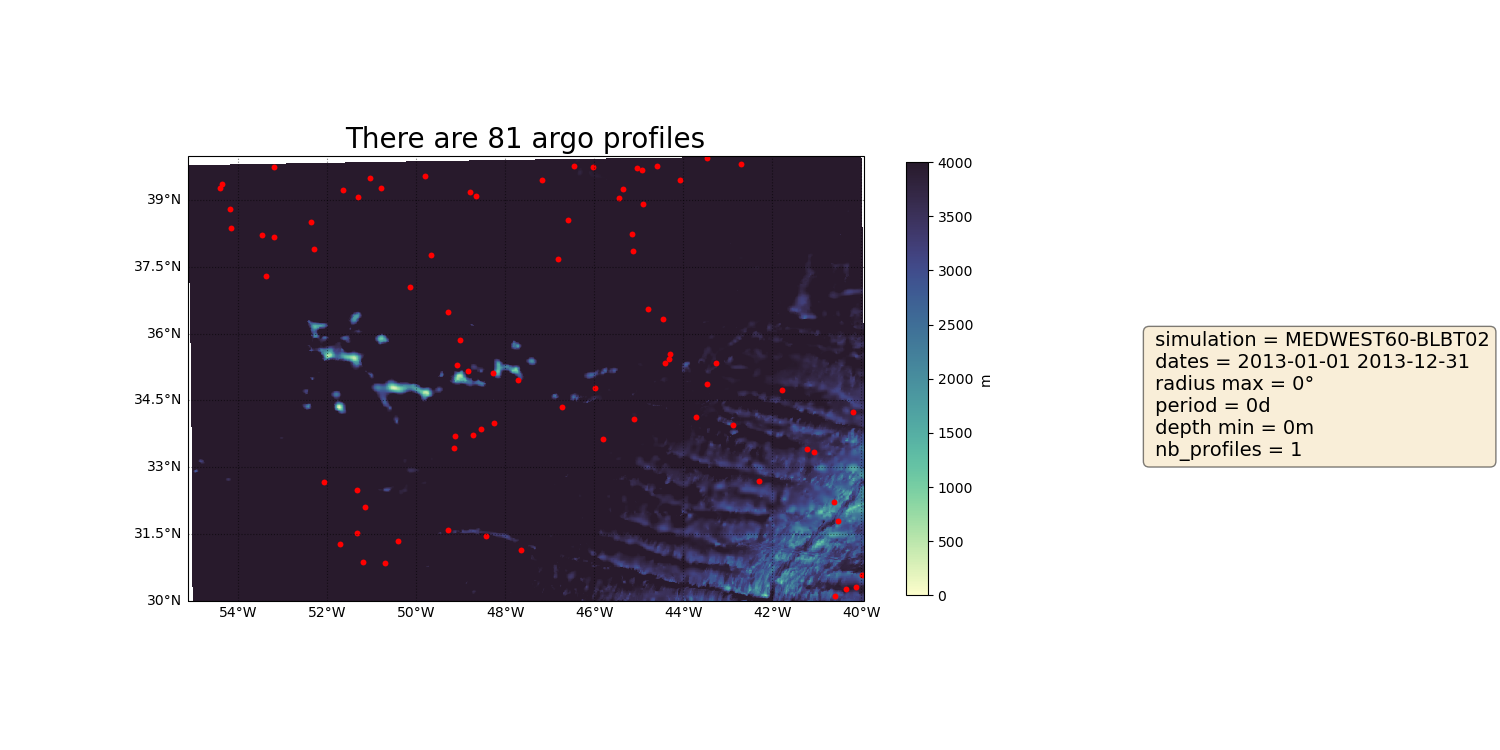
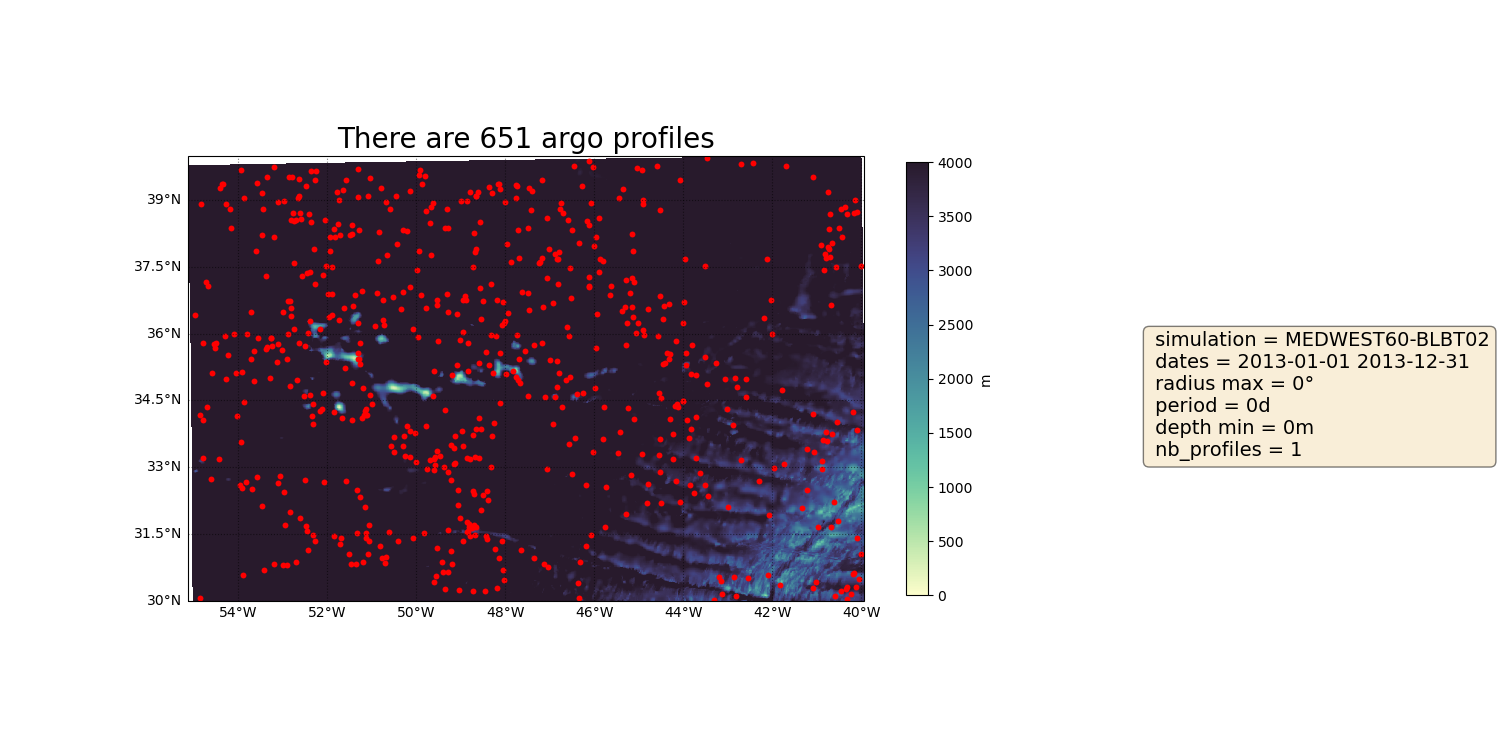
up

diff --git a/stat_comp/stat_comp.py b/stat_comp/stat_comp.py
@@ -247,6 +247,65 @@ def selection(config='MEDWEST60',case='BLBT02',member='',dirmod='/mnt/alberta/eq
     ds_profiles_out.to_netcdf(path=netcdf_file,mode='w')
     return ds_profiles_out
 
+# Make the selection of profiles from a netcdf gathering ARGO profiles
+def selection_from_netcdf(ncfile,config='MEDWEST60',case='BLBT02',member='',dirmod='/mnt/alberta/equipes/IGE/meom/workdir/lerouste/MEDWEST60/',coordfile='/mnt/meom/MODEL_SET/MEDWEST60/MEDWEST60-I/MEDWEST60_coordinates_v3.nc4',maskfile='/mnt/alberta/equipes/IGE/meom/MODEL_SET/MEDWEST60/MEDWEST60-I/MEDWEST60_mask.nc4',hgrfile='/mnt/alberta/equipes/IGE/meom/MODEL_SET/MEDWEST60/MEDWEST60-I/MEDWEST60_mesh_hgr.nc4',zgrfile='/mnt/alberta/equipes/IGE/meom/MODEL_SET/MEDWEST60/MEDWEST60-I/MEDWEST60_mesh_zgr.nc4',batfile='/mnt/alberta/equipes/IGE/meom/MODEL_SET/MEDWEST60/MEDWEST60-I/MEDWEST60_Bathymetry_v3.3.nc4',namlatmod='nav_lat',namlonmod='nav_lon',namdepmod='gdept_1d',nammaskmod='tmask',namtempmod='votemper',namsaltmod='vosaline',ymin=2009,mmin=7,dmin=1,ymax=2010,mmax=6,dmax=30,depthmin=0,radius_max=0.25,period=0,number_of_model_profiles=100000,plotdir='plots',ncdir='/gpfswork/rech/egi/rote001/ARGO',dmap=1,sosie_exec='/mnt/meom/workdir/alberta/DEV/sosie/bin/ij_from_lon_lat.x',srcargo='erddap'):
+    datemin=datetime.date(ymin,mmin,dmin)+datetime.timedelta(days=period)
+    datemax=datetime.date(ymax,mmax,dmax)-datetime.timedelta(days=period)
+    # determining the area
+    ds=xr.open_dataset(coordfile)
+    lat=ds[namlatmod]
+    lon=ds[namlonmod]
+    latmodmin,latmodmax,lonmodmin,lonmodmax=(lat.values.min(),lat.values.max(),lon.values.min(),lon.values.max())
+    ds_profiles=xr.open_dataset(ncfile)
+    index_i_model=[]
+    index_j_model=[]
+    # get rid of profiles not following criteria
+    for nprof in range(len(ds_profiles.N_PROF)):
+        print('Processing profile no '+str(nprof))
+        latargo=ds_profiles.LATITUDE[nprof].values
+        lonargo=ds_profiles.LONGITUDE[nprof].values
+        presargo=ds_profiles.PRES[nprof,:].values
+        i0,j0=loc(latargo,lonargo,nprof,hgrfile,namlatmod,namlonmod,nammaskmod,sosie_exec)
+        if (i0,j0) == (-1,-1):
+            print('profile is not in the domain at all')
+            continue
+        check=check_prof_in_ocean(i0,j0,maskfile,nammaskmod)
+        if check == 1:
+            print('no, profile is on the land')
+            continue
+        print('yes, profile is in the ocean')
+        check=check_close_to_boundaries(nprof,maskfile,nammaskmod,i0,j0,radius_max)
+        if check == 1:
+            print('no, profile is too close to model boundaries')
+            continue
+        print('yes, profile is not too close to model boundaries')
+        check=check_prof_depth(nprof,presargo,latargo,depthmin)
+        if check == 1:
+            print('no, profile is not deep enough')
+            continue
+        print('yes, profile is deep enough')
+        check=check_number_profile(nprof,i0,j0,depthmin,coordfile,maskfile,zgrfile,namlatmod,namlonmod,namdepmod,nammaskmod,lonargo,latargo,radius_max,number_of_model_profiles,period,lonmodmin, lonmodmax,latmodmin, latmodmax,dmap=0)
+        if check == 1:
+            print('no, there are not enough model profiles')
+            continue
+        print('yes, there are enough model profiles')
+        index_i_model.append(i0)
+        index_j_model.append(j0)
+        ds_one=ds_profiles.isel(N_PROF=nprof)
+        ds_prof=ds_one.expand_dims({'N_PROF':1})
+        try:
+            ds_profiles_out=xr.concat([ds_profiles_out,ds_prof],dim='N_PROF')
+        except NameError:
+            ds_profiles_out=ds_prof  
+    indexI_da=xr.DataArray(index_i_model,dims='N_PROF')
+    indexJ_da=xr.DataArray(index_j_model,dims='N_PROF')
+    ds_profiles_out['index_i_model']=indexI_da
+    ds_profiles_out['index_j_model']=indexJ_da
+    if not os.path.exists(ncdir):
+        os.makedirs(ncdir)
+    netcdf_file=ncdir+'/ARGO_profiles_selection_for_'+str(config)+'-'+str(case)+'_'+str(datemin)+'-'+str(datemax)+'_'+str(depthmin)+'m_'+str(radius_max)+'x'+str(period)+'d_'+str(number_of_model_profiles)+'.nc'
+    ds_profiles_out.to_netcdf(path=netcdf_file,mode='w')
+    return ds_profiles_out
                         
 # Colocation of profile in model with hourly outputs of gridT and gridS
 

diff --git a/notebooks/2020-11-18-AA-netcdf-maps-all-profiles-ARGO-NANFL-date-with-mac-files-cal1.py b/notebooks/2020-11-18-AA-netcdf-maps-all-profiles-ARGO-NANFL-date-with-mac-files-cal1.py
@@ -1,0 +1,93 @@
+#!/usr/bin/env python
+# Imports of librairies
+import numpy as np
+
+import time
+import sys
+import os
+import glob
+import io
+
+import datetime
+from datetime import date
+
+from netCDF4 import Dataset
+import pandas as pd
+import xarray as xr
+import dask
+
+import json
+import re
+
+import seawater
+import cmocean
+
+import matplotlib.pyplot as plt
+import cartopy.crs as ccrs
+import cartopy.feature as cfeature
+from cartopy.mpl.gridliner import LONGITUDE_FORMATTER, LATITUDE_FORMATTER
+
+import warnings
+warnings.filterwarnings('ignore')
+
+import sys
+sys.path.insert(0,'/mnt/meom/workdir/alberta/DEV/git/validation-TSprofiles/stat_comp')
+sys.path.insert(0,'/mnt/meom/workdir/alberta/DEV/git/validation-TSprofiles/param')
+
+import stat_comp as sc
+import param_all_profiles_NANFL60_2009_cal1 as param
+
+## parser and main
+def script_parser():
+	"""Customized parser.
+	"""
+	from optparse import OptionParser
+	usage = "usage: %prog  --jsonfile name --dir dir"
+	parser = OptionParser(usage=usage)
+	parser.add_option('--datemin', help="datemin", dest="datemin", type="string", nargs=1)
+	parser.add_option('--datemax', help="datemax", dest="datemax", type="string", nargs=1)
+	return parser
+
+def main():
+	parser = script_parser()
+	(options, args) = parser.parse_args()
+	optdic=vars(options)
+
+	datemin = optdic['datemin']
+	datemax = optdic['datemax']
+
+
+	params = {
+    		'config':param.config,
+    		'case':param.case,
+   		'member':param.member,
+    		'dirmod':param.dirmod,
+    		'coordfile':param.coordfile,
+    		'maskfile':param.maskfile,
+    		'hgrfile':param.hgrfile,
+    		'zgrfile':param.zgrfile,
+    		'batfile':param.batfile,
+    		'namlatmod':param.namlatmod,
+    		'namlonmod':param.namlonmod,
+    		'namdepmod':param.namdepmod,
+    		'nammaskmod':param.nammaskmod,
+    		'ymin':np.int(datemin[6:]),
+    		'mmin':np.int(datemin[3:5]),
+    		'dmin':np.int(datemin[0:2]),
+    		'ymax':np.int(datemax[6:]),
+    		'mmax':np.int(datemax[3:5]),
+    		'dmax':np.int(datemax[0:2]),
+    		'depthmin':param.depthmin,
+    		'radius_max':param.radius_max,
+    		'period':param.period,
+    		'number_of_model_profiles':param.number_of_model_profiles,
+    		'plotdir':param.plotdir,
+    		'ncdir':param.ncdir,
+    		'dmap':param.dmap,
+    		'sosie_exec':param.sosie_exec,
+    		'srcargo':param.srcargo}
+	ncfile='/mnt/meom/workdir/alberta/ARGO/ARGO_profiles_selection_for_NANFL_'+datemin[6:]+'-'+datemin[3:5]+'-'+datemin[0:2]+'-'+datemax[6:]+'-'+datemax[3:5]+'-'+datemax[0:2]+'.nc'
+	ds_profiles=sc.selection_from_netcdf(ncfile,**params)
+
+if __name__ == '__main__':
+	sys.exit(main() or 0)

diff --git a/notebooks/2020-11-18-AA-netcdf-all-profiles-ARGO-NANFL-date-from-mac-files-cal1.py b/notebooks/2020-11-18-AA-netcdf-all-profiles-ARGO-NANFL-date-from-mac-files-cal1.py
@@ -1,0 +1,94 @@
+#!/usr/bin/env python
+# Imports of librairies
+import numpy as np
+
+import time
+import sys
+import os
+import glob
+import io
+
+import datetime
+from datetime import date
+
+from netCDF4 import Dataset
+import pandas as pd
+import xarray as xr
+import dask
+
+import json
+import re
+
+import seawater
+import cmocean
+
+import matplotlib.pyplot as plt
+import cartopy.crs as ccrs
+import cartopy.feature as cfeature
+from cartopy.mpl.gridliner import LONGITUDE_FORMATTER, LATITUDE_FORMATTER
+
+import warnings
+warnings.filterwarnings('ignore')
+
+import sys
+sys.path.insert(0,'/mnt/meom/workdir/alberta/DEV/git/validation-TSprofiles/stat_comp')
+sys.path.insert(0,'/mnt/meom/workdir/alberta/DEV/git/validation-TSprofiles/param')
+
+import stat_comp as sc
+import param_all_profiles_NANFL60_2009_cal1 as param
+
+## parser and main
+def script_parser():
+	"""Customized parser.
+	"""
+	from optparse import OptionParser
+	usage = "usage: %prog  --jsonfile name --dir dir"
+	parser = OptionParser(usage=usage)
+	parser.add_option('--datemin', help="datemin", dest="datemin", type="string", nargs=1)
+	parser.add_option('--datemax', help="datemax", dest="datemax", type="string", nargs=1)
+	return parser
+
+def main():
+	parser = script_parser()
+	(options, args) = parser.parse_args()
+	optdic=vars(options)
+
+	datemin = optdic['datemin']
+	datemax = optdic['datemax']
+
+
+	params = {
+    		'config':param.config,
+    		'case':param.case,
+   		'member':param.member,
+    		'dirmod':param.dirmod,
+    		'coordfile':param.coordfile,
+    		'maskfile':param.maskfile,
+    		'hgrfile':param.hgrfile,
+    		'zgrfile':param.zgrfile,
+    		'batfile':param.batfile,
+    		'namlatmod':param.namlatmod,
+    		'namlonmod':param.namlonmod,
+    		'namdepmod':param.namdepmod,
+    		'nammaskmod':param.nammaskmod,
+    		'ymin':np.int(datemin[6:]),
+    		'mmin':np.int(datemin[3:5]),
+    		'dmin':np.int(datemin[0:2]),
+    		'ymax':np.int(datemax[6:]),
+    		'mmax':np.int(datemax[3:5]),
+    		'dmax':np.int(datemax[0:2]),
+    		'depthmin':param.depthmin,
+    		'radius_max':param.radius_max,
+    		'period':param.period,
+    		'number_of_model_profiles':param.number_of_model_profiles,
+    		'plotdir':param.plotdir,
+    		'ncdir':param.ncdir,
+    		'dmap':param.dmap,
+    		'sosie_exec':param.sosie_exec,
+    		'srcargo':param.srcargo}
+
+	ds_profiles=sc.selection(**params)
+	#sc.plot_profiles_argo(ds_profiles,**params)
+
+if __name__ == '__main__':
+	sys.exit(main() or 0)
